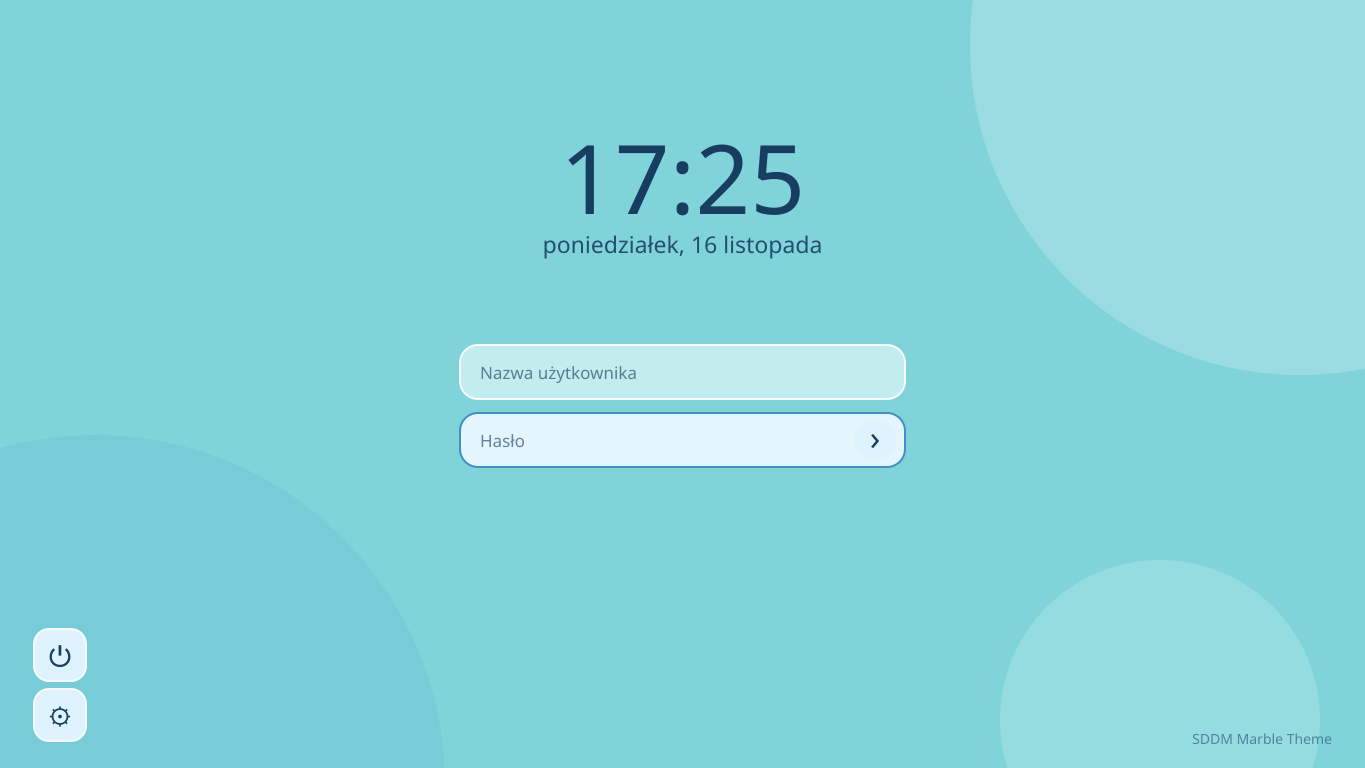
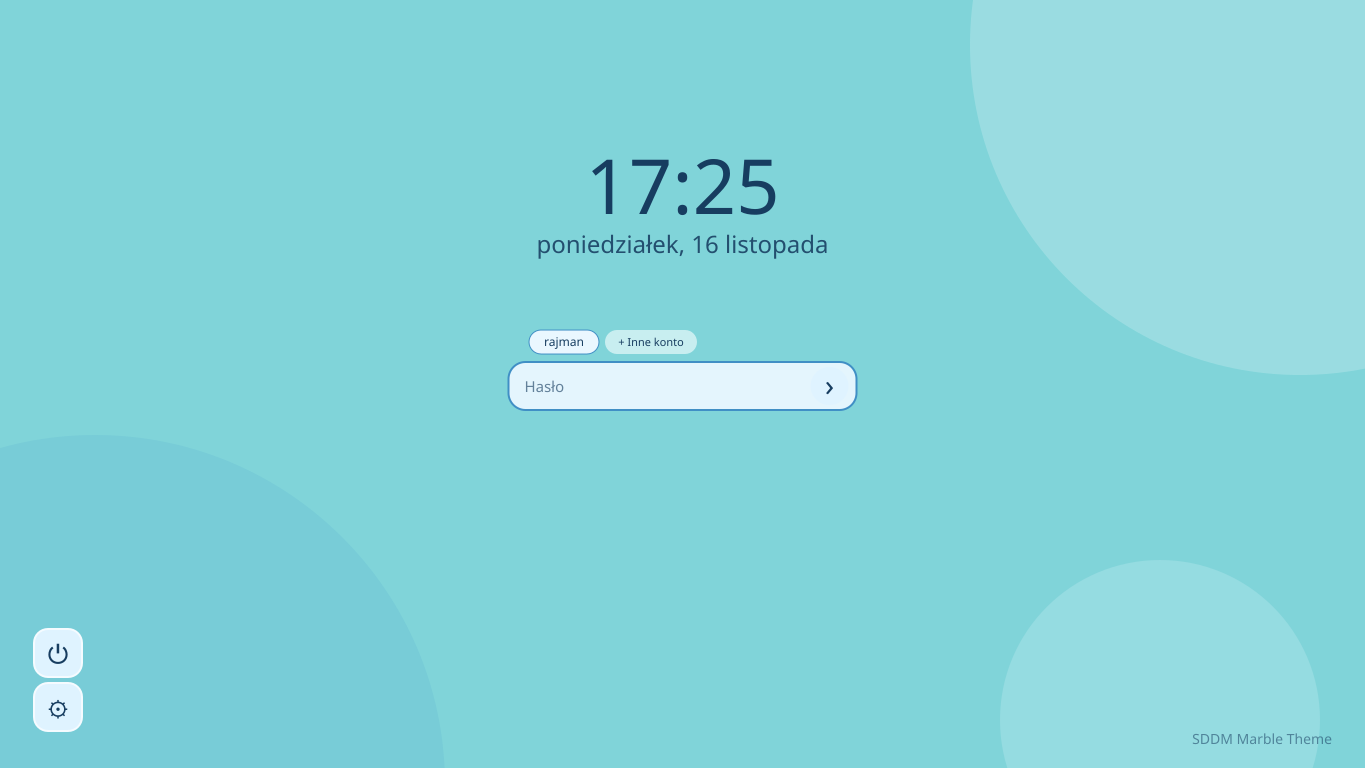
Balance screen sizing and anchor session menu

diff --git a/components/LoginPanel.qml b/components/LoginPanel.qml
@@ -57,7 +57,7 @@ Column {
                 checkable: true
                 checked: !root.otherUserMode && root.selectedUser === name
                 font.family: root.fontFamily
-                font.pixelSize: 16
+                font.pixelSize: 18
                 onClicked: {
                     root.selectedUser = name
                     root.otherUserMode = false
@@ -88,7 +88,7 @@ Column {
             text: root.otherUserMode ? "Wróć do kont" : "+ Inne konto"
             enabled: !root.otherUserMode || !!root.selectedUser
             font.family: root.fontFamily
-            font.pixelSize: 15
+            font.pixelSize: 16
             onClicked: {
                 if (root.otherUserMode) {
                     root.otherUserMode = false
@@ -121,7 +121,7 @@ Column {
     TextField {
         id: usernameInput
         width: parent.width
-        height: 54
+        height: 68
         visible: root.otherUserMode
         placeholderText: "Nazwa użytkownika"
         color: root.textColor
@@ -141,8 +141,8 @@ Column {
     Rectangle {
         id: passwordBox
         width: parent.width
-        height: 54
-        radius: 18
+        height: 68
+        radius: 24
         color: root.fieldColor
         opacity: 0.9
         border.width: 1
@@ -151,8 +151,8 @@ Column {
         TextField {
             id: passwordInput
             anchors.fill: parent
-            anchors.rightMargin: 54
-            leftPadding: 20
+            anchors.rightMargin: 64
+            leftPadding: 24
             placeholderText: "Hasło"
             echoMode: TextInput.Password
             color: root.textColor
@@ -163,14 +163,14 @@ Column {
         }
 
         RoundButton {
-            width: 42
-            height: 42
+            width: 50
+            height: 50
             anchors.right: parent.right
-            anchors.rightMargin: 6
+            anchors.rightMargin: 8
             anchors.verticalCenter: parent.verticalCenter
             text: "›"
             font.family: "Noto Sans"
-            font.pixelSize: 30
+            font.pixelSize: 36
             font.weight: Font.Bold
             contentItem: Text {
                 text: parent.text

diff --git a/components/SessionControls.qml b/components/SessionControls.qml
@@ -17,11 +17,12 @@ Column {
     spacing: 8
 
     RoundButton {
-        width: 52
-        height: 52
+        id: settingsButton
+        width: 68
+        height: 68
         enabled: root.powerOffEnabled
         text: "⏻"
-        font.pixelSize: 25
+        font.pixelSize: 36
         font.family: "Noto Sans"
         contentItem: Text {
             text: parent.text
@@ -41,10 +42,10 @@ Column {
     }
 
     RoundButton {
-        width: 52
-        height: 52
+        width: 68
+        height: 68
         text: "⚙"
-        font.pixelSize: 23
+        font.pixelSize: 32
         font.family: root.fontFamily
         contentItem: Text {
             text: parent.text
@@ -60,11 +61,23 @@ Column {
             border.color: "#f5fbff"
             border.width: 1
         }
-        onClicked: sessionMenu.open()
+        onClicked: sessionMenu.popup(settingsButton, settingsButton.width + 8, 0)
     }
 
     Menu {
         id: sessionMenu
+        palette.window: root.buttonColor
+        palette.text: root.textColor
+        palette.highlight: "#b9e2fa"
+        palette.highlightedText: root.textColor
+
+        background: Rectangle {
+            implicitWidth: 180
+            radius: 12
+            color: root.buttonColor
+            border.color: "#f5fbff"
+            border.width: 1
+        }
 
         Repeater {
             model: root.sessionsModel
@@ -73,6 +86,18 @@ Column {
                 text: model.name
                 checkable: true
                 checked: index === root.sessionIndex
+                contentItem: Text {
+                    text: parent.text
+                    color: root.textColor
+                    font.family: root.fontFamily
+                    font.pixelSize: 16
+                    verticalAlignment: Text.AlignVCenter
+                    leftPadding: 8
+                }
+                background: Rectangle {
+                    radius: 8
+                    color: parent.highlighted ? "#b9e2fa" : "transparent"
+                }
                 onTriggered: root.sessionSelected(index)
             }
         }

diff --git a/Main.qml b/Main.qml
@@ -17,7 +17,7 @@ Rectangle {
     property color darkShapeColor: config.darkShapeColor || "#398fc9"
     property string displayFont: fredoka.status === FontLoader.Ready ? fredoka.name : "Noto Sans"
     property int sessionIndex: sessionModel.lastIndex >= 0 ? sessionModel.lastIndex : 0
-    property real timeScale: Number(config.timeScale) || 1.25
+    property real timeScale: Number(config.timeScale) || 0.8
     property real dateScale: Number(config.dateScale) || 0.9
 
     FontLoader {
@@ -36,6 +36,7 @@ Rectangle {
         anchors.horizontalCenter: parent.horizontalCenter
         anchors.top: parent.top
         anchors.topMargin: root.height * 0.205
+        availableHeight: root.height
         textColor: root.inkColor
         fontFamily: root.displayFont
         timeScale: root.timeScale
@@ -44,7 +45,7 @@ Rectangle {
 
     LoginPanel {
         id: loginPanel
-        width: Math.min(430, root.width * 0.82)
+        width: Math.min(490, root.width * 0.82)
         anchors.horizontalCenter: parent.horizontalCenter
         y: root.height * 0.43
         usersModel: userModel
@@ -63,8 +64,8 @@ Rectangle {
     SessionControls {
         anchors.left: parent.left
         anchors.bottom: parent.bottom
-        anchors.leftMargin: 34
-        anchors.bottomMargin: 34
+        anchors.leftMargin: 48
+        anchors.bottomMargin: 48
         sessionsModel: sessionModel
         sessionIndex: root.sessionIndex
         textColor: root.inkColor

diff --git a/components/ClockDisplay.qml b/components/ClockDisplay.qml
@@ -5,10 +5,11 @@ Column {
 
     property color textColor: "#173d60"
     property string fontFamily: "Noto Sans"
+    property real availableHeight: 768
     property real timeScale: 1.25
     property real dateScale: 0.9
-    property int timeFontSize: Math.min(100, Math.max(36, Screen.height * 0.095)) * timeScale
-    property int dateFontSize: Math.min(27, Math.max(16, Screen.height * 0.035)) * dateScale
+    property int timeFontSize: Math.min(120, Math.max(48, availableHeight * 0.14)) * timeScale
+    property int dateFontSize: Math.min(28, Math.max(20, availableHeight * 0.035)) * dateScale
     spacing: 5
 
     function polishDate(dateValue) {
